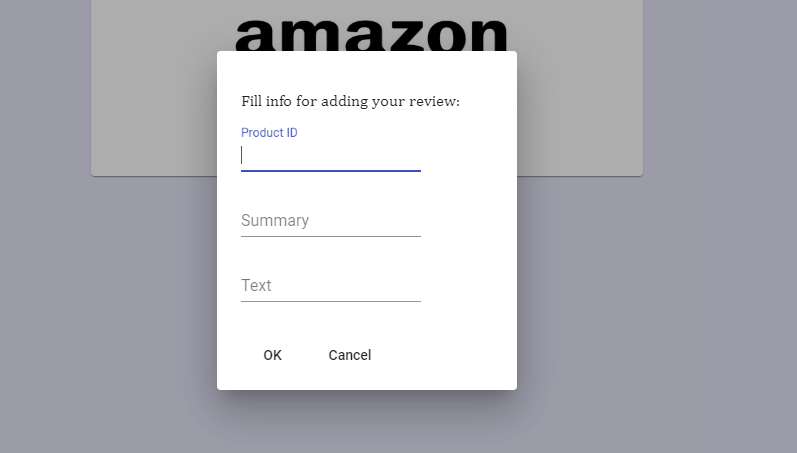
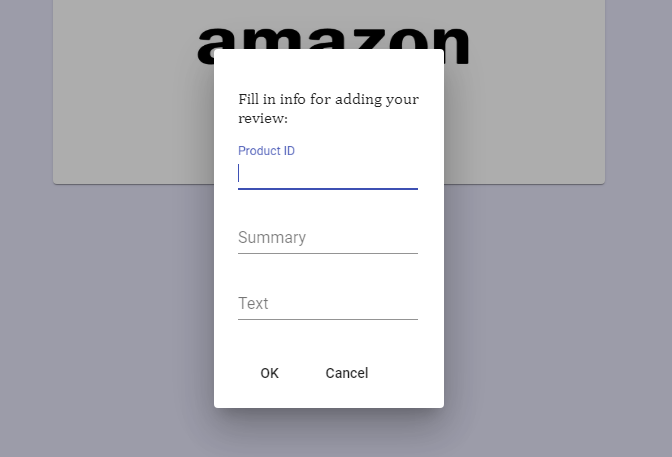
changed style

Changed region(s): [[0.0938, 0.0309, 0.9062, 0.8962]]

diff --git a/frontend/src/app/registration/registration.component.html b/frontend/src/app/registration/registration.component.html
@@ -1,23 +1,26 @@
-<form [formGroup]="registrationForm">
-  <div class="form-group">
-    <mat-form-field>
-      <input type="text" formControlName="login" id="login" matInput placeholder="Login" />
-    </mat-form-field>
-  </div>
-  <div class="form-group">
-    <mat-form-field>
-      <input type="password" formControlName="password" id="password" matInput placeholder="Password" />
-    </mat-form-field>
-  </div>
-  <div class="form-group">
-    <mat-form-field>
-      <input type="password" formControlName="repeatPassword" id="repeatPassword" matInput placeholder="Repeat password" />
-    </mat-form-field>
-  </div>
-  <div class="form-group">
-    <button mat-raised-button color="primary" (click)="onSubmit()">
-      Register
-    </button>
-  </div>
-  <mat-error>{{errors}}</mat-error>
-</form>
+<mat-card>
+  <form [formGroup]="registrationForm">
+    <div class="form-group">
+      <mat-form-field>
+        <input type="text" formControlName="login" id="login" matInput placeholder="Login"/>
+      </mat-form-field>
+    </div>
+    <div class="form-group">
+      <mat-form-field>
+        <input type="password" formControlName="password" id="password" matInput placeholder="Password"/>
+      </mat-form-field>
+    </div>
+    <div class="form-group">
+      <mat-form-field>
+        <input type="password" formControlName="repeatPassword" id="repeatPassword" matInput
+               placeholder="Repeat password"/>
+      </mat-form-field>
+    </div>
+    <div class="form-group">
+      <button mat-raised-button color="primary" (click)="onSubmit()">
+        Register
+      </button>
+    </div>
+    <mat-error>{{errors}}</mat-error>
+  </form>
+</mat-card>

diff --git a/frontend/src/app/login/login.component.html b/frontend/src/app/login/login.component.html
@@ -1,23 +1,25 @@
-<form [formGroup]="loginForm">
-  <div class="form-group">
-    <mat-form-field>
-      <input type="text" formControlName="login" id="login" matInput placeholder="Login"/>
-    </mat-form-field>
-  </div>
-  <div class="form-group">
-    <mat-form-field>
-      <input type="password" formControlName="password" id="password" matInput placeholder="Password"/>
-    </mat-form-field>
-  </div>
-  <div class="form-group">
-    <button mat-raised-button color="primary" (click)="onSubmit()">
-      Login
-    </button>
-  </div>
-  <mat-error>{{errors}}</mat-error>
-  <p>You didn't register?
-    <button mat-stroked-button color="primary" routerLink="/registration">
-      Register
-    </button>
-  </p>
-</form>
+<mat-card>
+  <form [formGroup]="loginForm">
+    <div class="form-group">
+      <mat-form-field>
+        <input type="text" formControlName="login" id="login" matInput placeholder="Login"/>
+      </mat-form-field>
+    </div>
+    <div class="form-group">
+      <mat-form-field>
+        <input type="password" formControlName="password" id="password" matInput placeholder="Password"/>
+      </mat-form-field>
+    </div>
+    <div class="form-group">
+      <button mat-raised-button color="primary" (click)="onSubmit()">
+        Login
+      </button>
+    </div>
+    <mat-error>{{errors}}</mat-error>
+    <p>You didn't register?
+      <button mat-stroked-button color="primary" routerLink="/registration">
+        Register
+      </button>
+    </p>
+  </form>
+</mat-card>

diff --git a/frontend/src/app/user-main/user-main.component.ts b/frontend/src/app/user-main/user-main.component.ts
@@ -29,7 +29,7 @@ export class UserMainComponent implements OnInit {
   openAddReviewDialog() {
     this.errors = ""
     const dialog = this.dialog.open(AddReviewDialogComponent, {
-      width: '300px',
+      width: '230px',
       data: {summary: this.summary, text: this.text, productId: this.productId}
     });
 
@@ -46,7 +46,7 @@ export class UserMainComponent implements OnInit {
   openUpdateReviewDialog() {
     this.errors = ""
     const dialog = this.dialog.open(UpdateReviewDialogComponent, {
-      width: '300px',
+      width: '230px',
       data: {summary: this.summary, text: this.text}
     });
 

diff --git a/frontend/src/app/login/login.component.css b/frontend/src/app/login/login.component.css
@@ -7,13 +7,16 @@
   margin-left: 10px;
 }
 
-form {
-  display: flex;
-  flex-direction: column;
-  justify-content: center;
-  align-items: center;
+mat-card {
+  padding-top: 25px;
+  padding-bottom: 25px;
+  width: 250px;
   text-align: center;
-  min-height: 100vh;
+  position: fixed;
+  top: 50%;
+  left: 50%;
+  transform: translate(-50%, -50%);
+  height: 250px;
 }
 
 p {

diff --git a/frontend/src/app/registration/registration.component.css b/frontend/src/app/registration/registration.component.css
@@ -3,11 +3,14 @@
   margin-top: 10px;
 }
 
-form {
-  display: flex;
-  flex-direction: column;
-  justify-content: center;
-  align-items: center;
+mat-card {
+  padding-top: 25px;
+  padding-bottom: 25px;
+  width: 250px;
   text-align: center;
-  min-height: 100vh;
+  position: fixed;
+  top: 50%;
+  left: 50%;
+  transform: translate(-50%, -50%);
+  height: 250px;
 }

diff --git a/frontend/src/app/dialog/add-review-dialog/add-review-dialog.html b/frontend/src/app/dialog/add-review-dialog/add-review-dialog.html
@@ -1,5 +1,5 @@
 <div mat-dialog-content>
-  <p>Fill info for adding your review: </p>
+  <p>Fill in info for adding your review: </p>
   <mat-form-field>
     <mat-label>Product ID</mat-label>
     <input matInput [(ngModel)]="data.productId">
